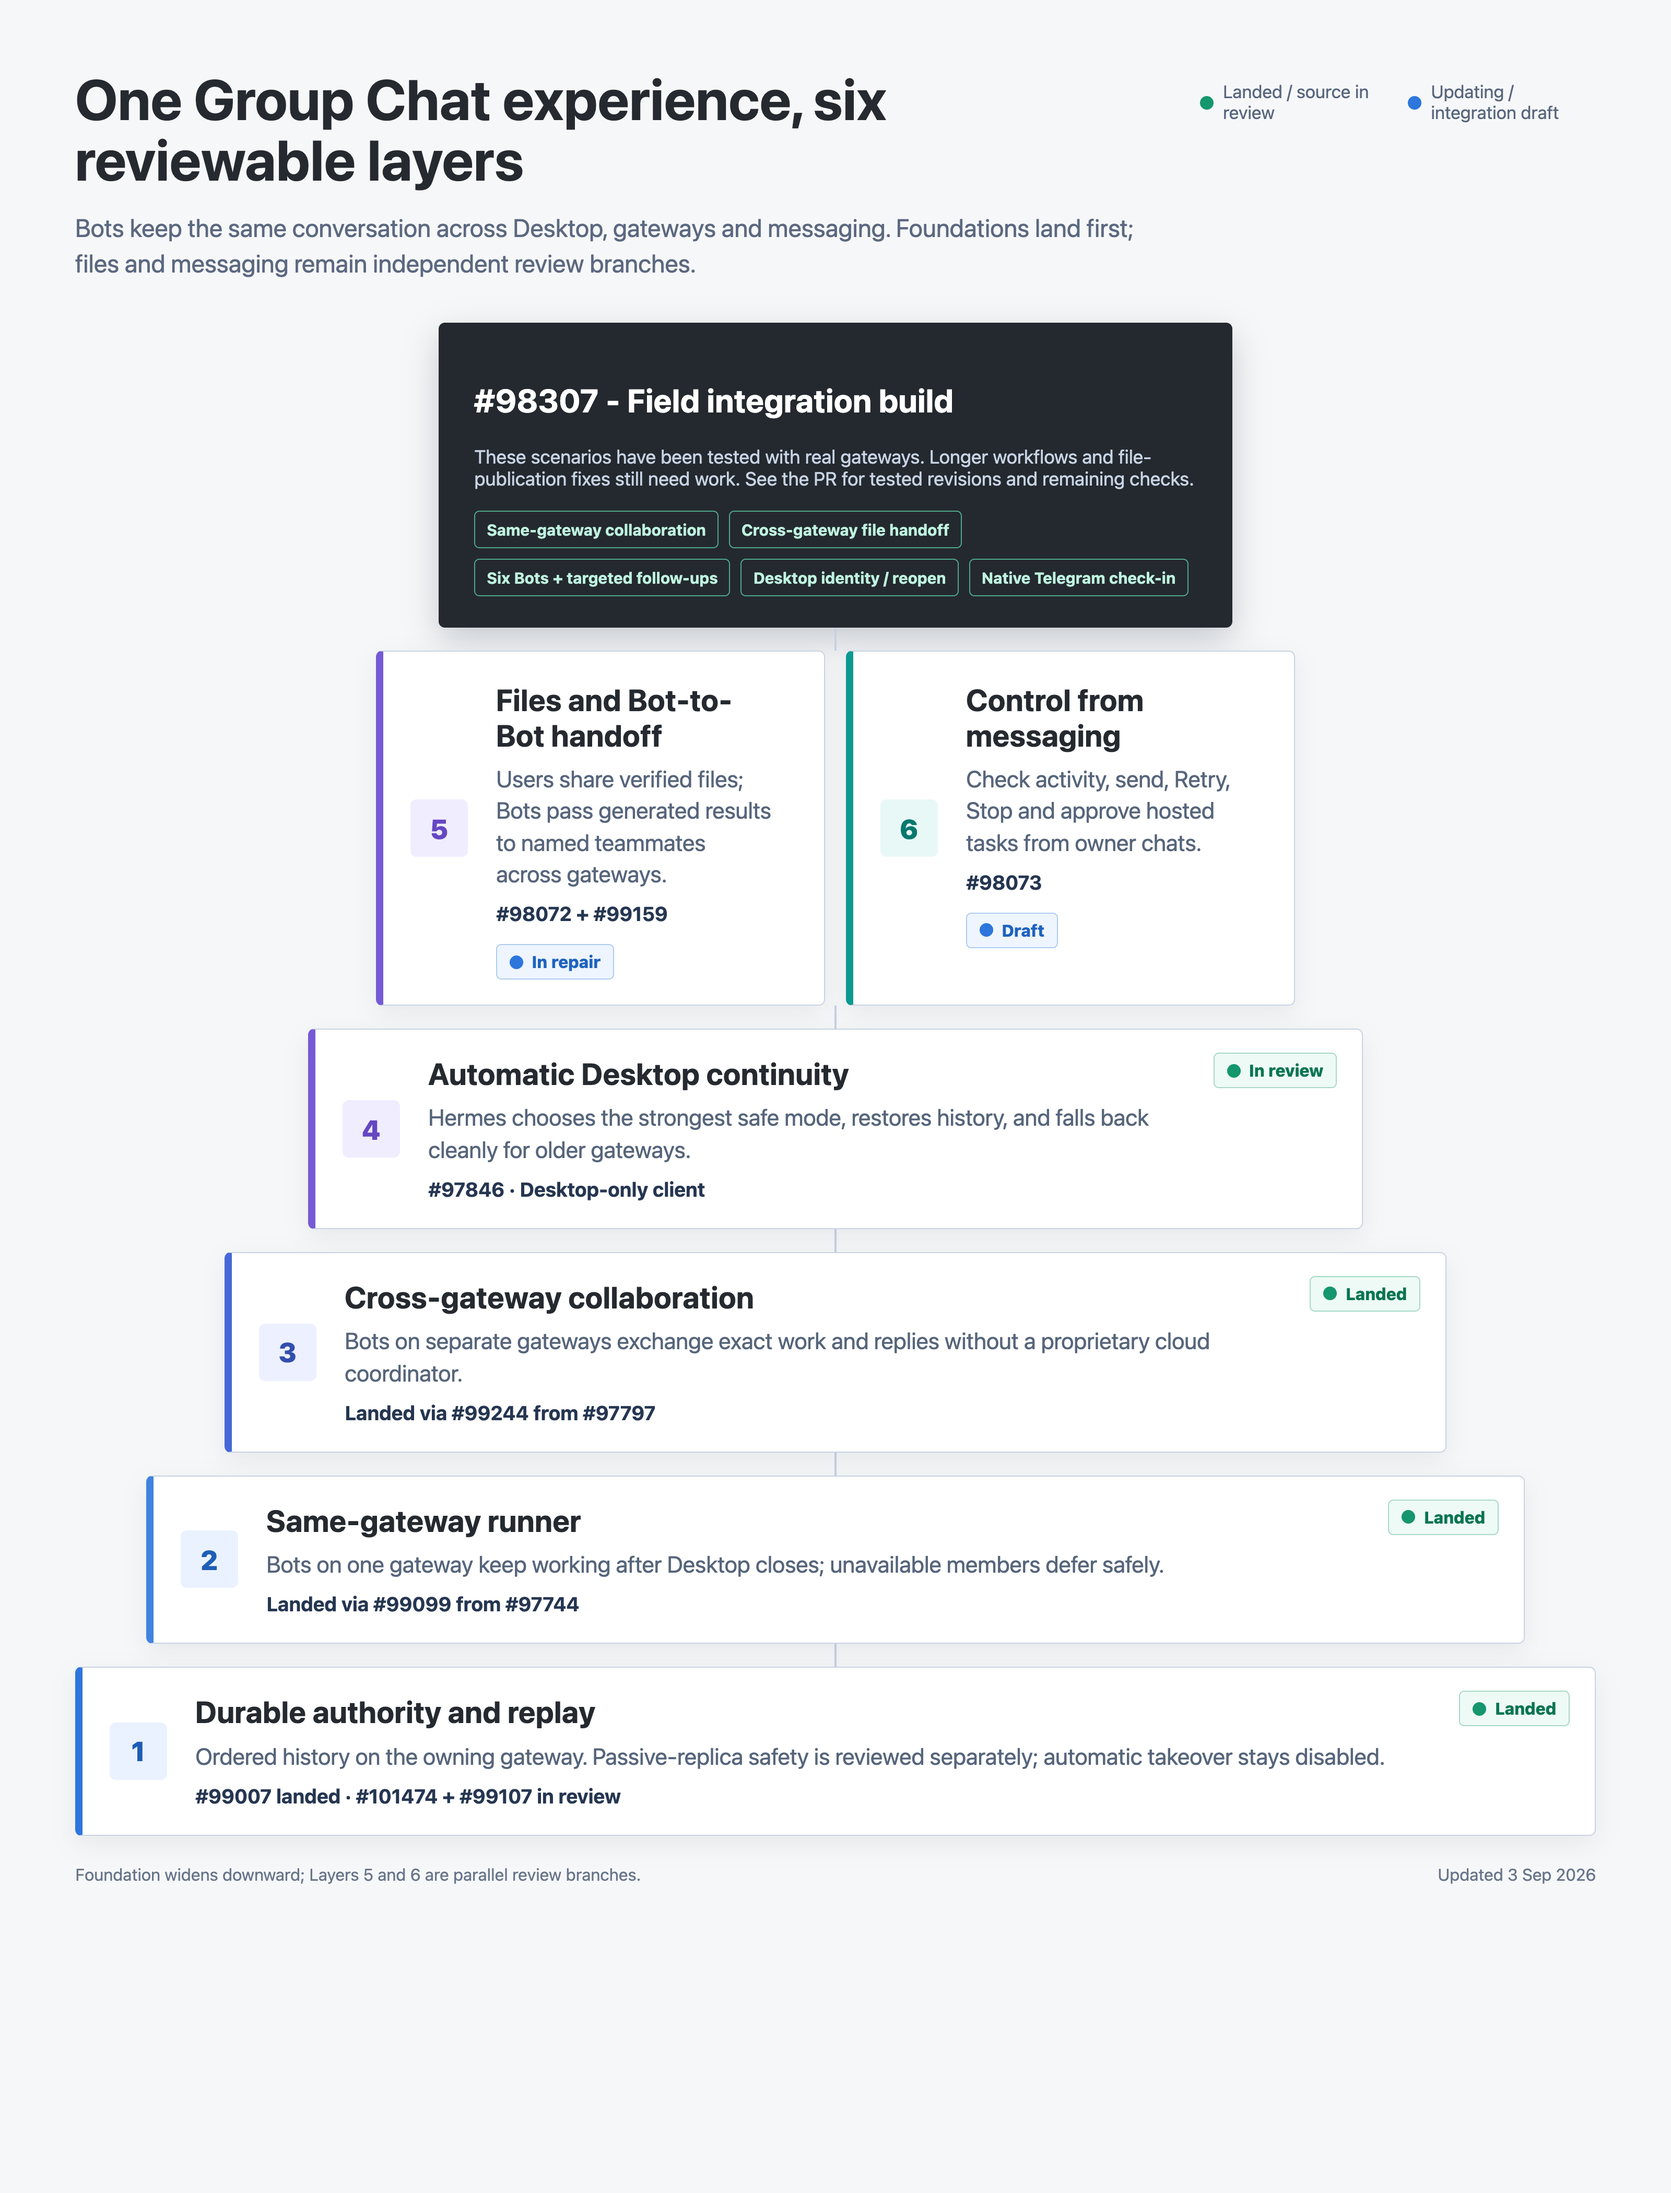
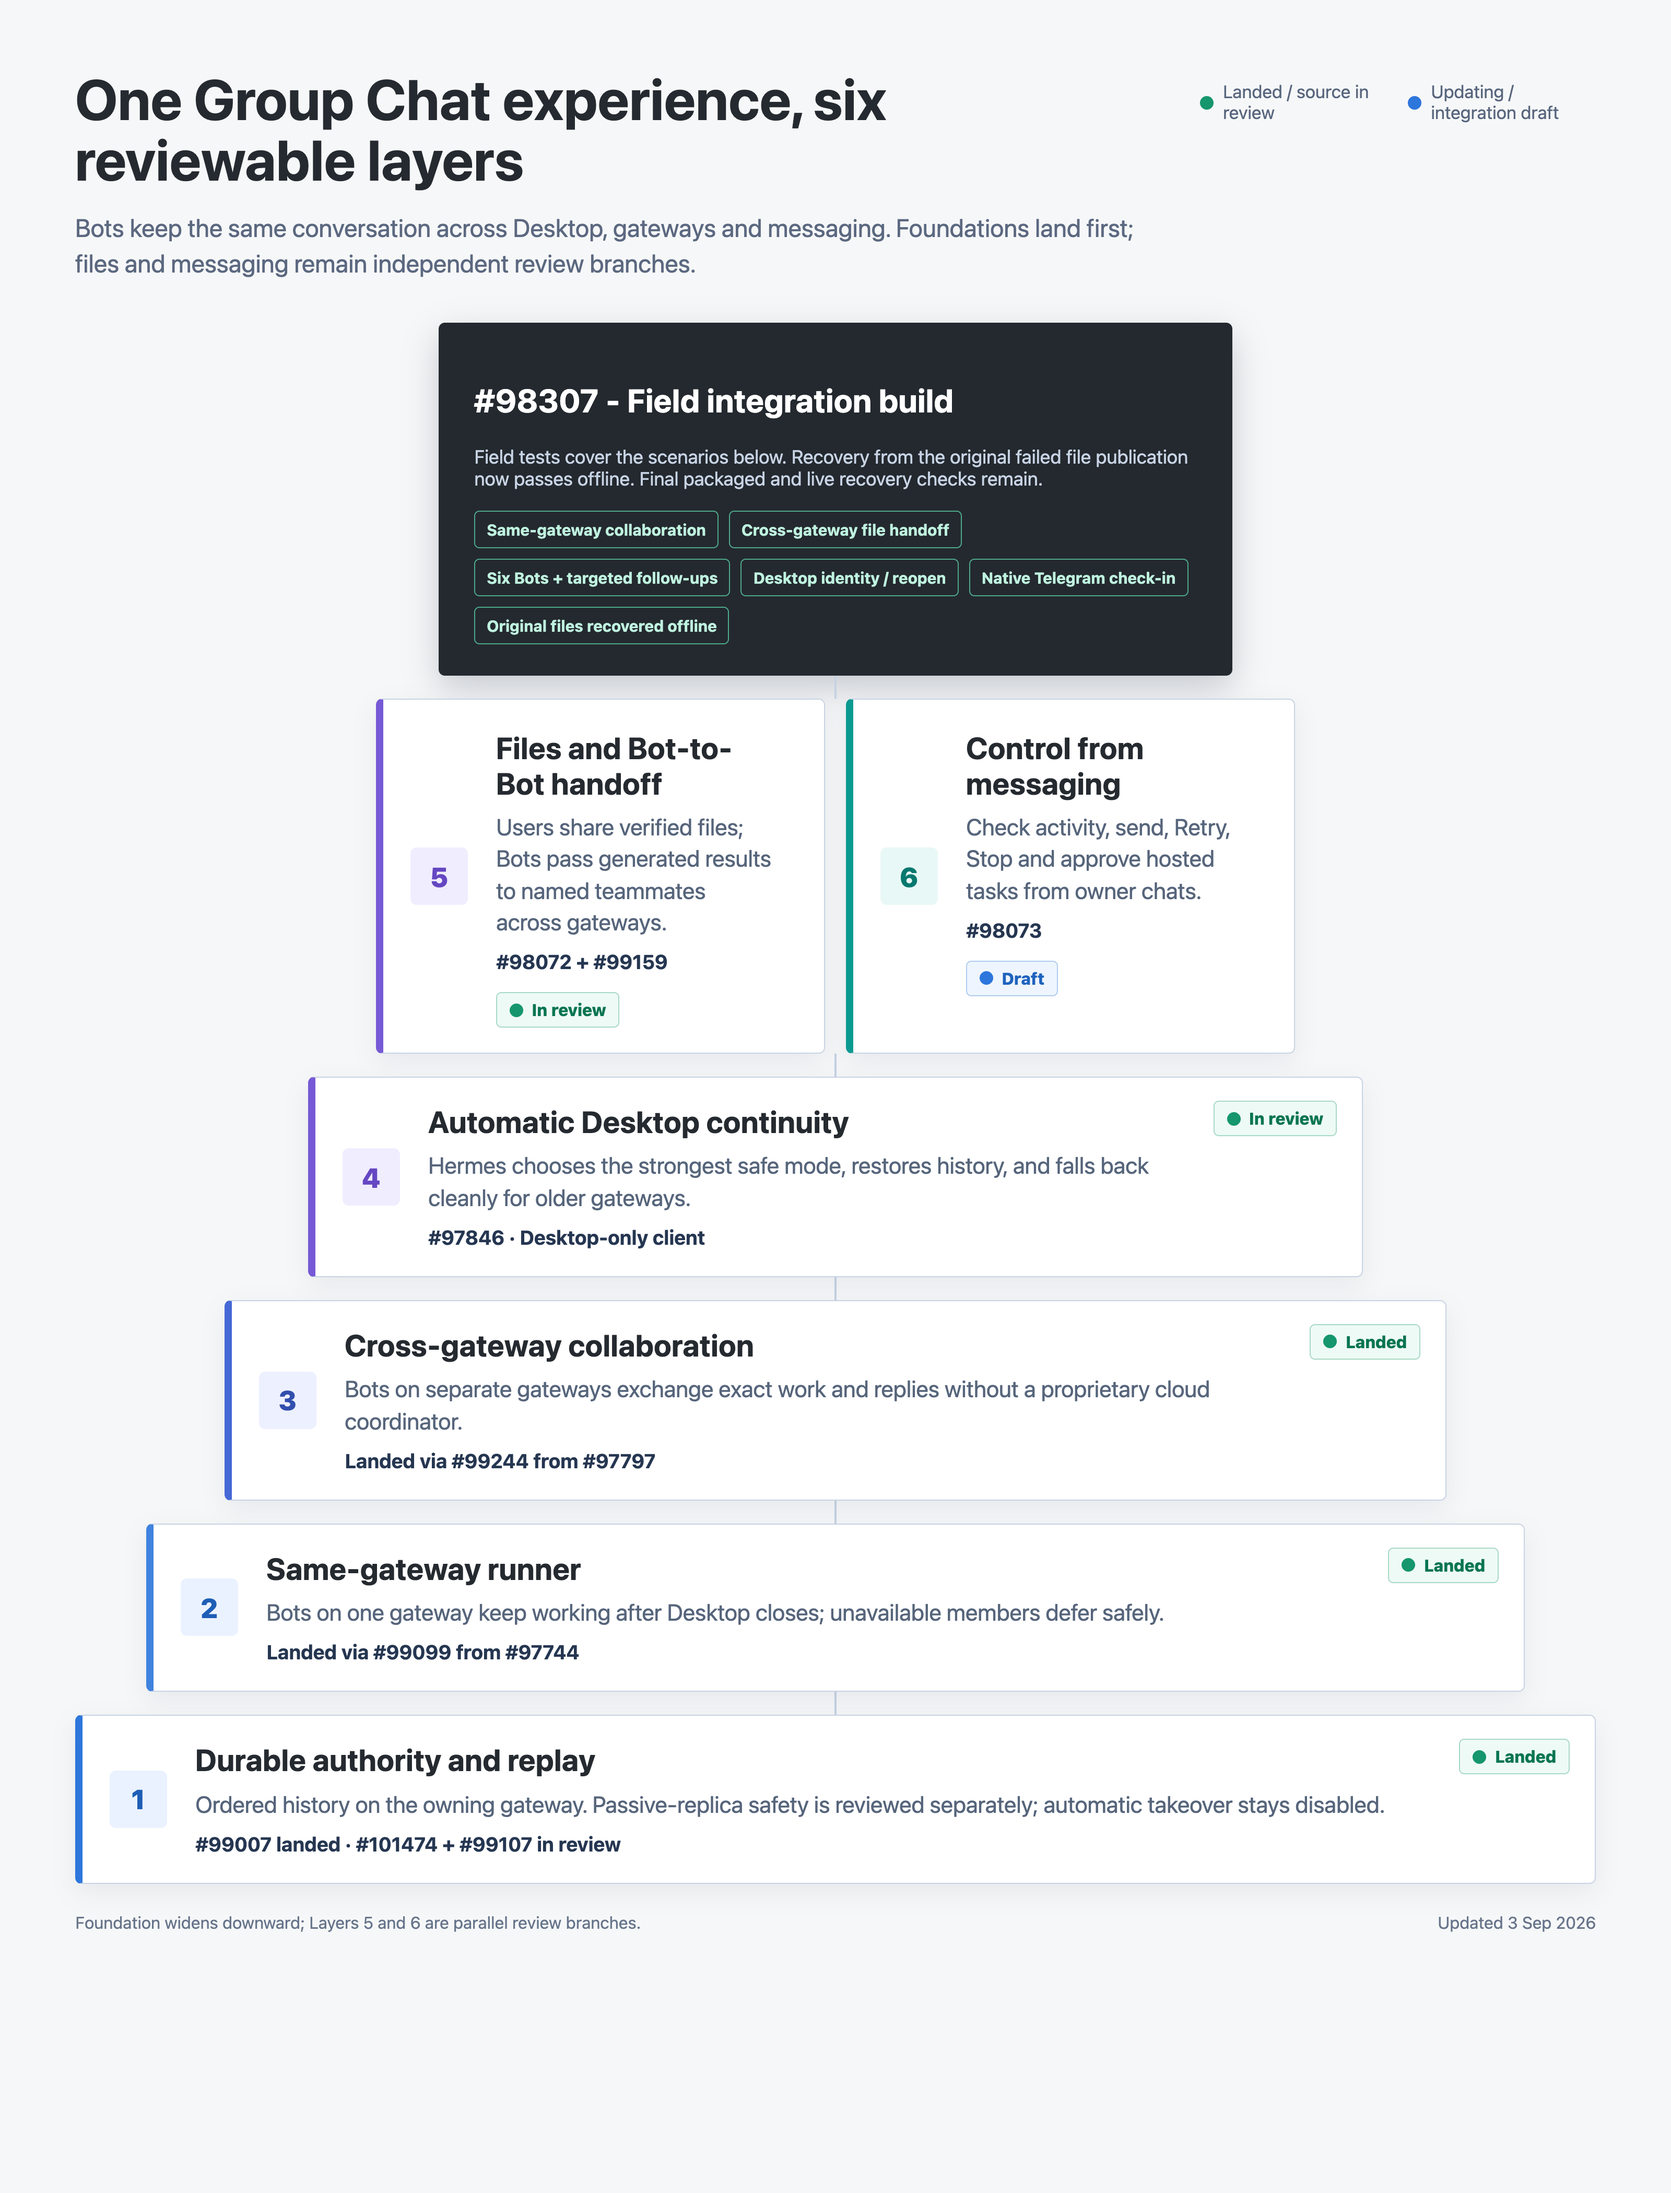
docs: reflect published file repairs and verified offline recovery
Refresh the six-layer visual without claiming completed live recovery. Keep Files in review, Messaging in draft, and the pyramid geometry and full footer intact. The editable HTML accompanies the 3200x4200 render.

diff --git a/docs/issue-assets/group-chat-delivery-stack-20260903.html b/docs/issue-assets/group-chat-delivery-stack-20260903.html
@@ -1,0 +1,174 @@
+<!doctype html>
+<html lang="en">
+<head>
+<meta charset="utf-8">
+<style>
+  * { box-sizing: border-box; }
+  html, body { margin: 0; width: 1600px; min-height: 2000px; }
+  body { overflow: visible; }
+  body {
+    background: #f6f7f8;
+    color: #252a30;
+    font-family: Inter, ui-sans-serif, -apple-system, BlinkMacSystemFont, "Segoe UI", sans-serif;
+    letter-spacing: 0;
+  }
+  main { width: 100%; min-height: 100%; padding: 66px 72px 84px; }
+  header { display: flex; justify-content: space-between; align-items: flex-start; gap: 40px; }
+  h1 { margin: 0; max-width: 960px; font-size: 54px; line-height: 1.08; letter-spacing: 0; }
+  .sub { margin-top: 18px; max-width: 1050px; font-size: 24px; line-height: 1.42; color: #5b6880; }
+  .legend { display: flex; gap: 24px; padding-top: 12px; font-size: 17px; color: #58667e; }
+  .legend-item { display: flex; align-items: center; gap: 9px; max-width: 180px; }
+  .dot { width: 13px; height: 13px; border-radius: 50%; flex: none; }
+  .green { background: #15966d; }
+  .blue { background: #2d76dc; }
+  .stack { margin-top: 40px; display: flex; flex-direction: column; align-items: center; }
+  .connector { width: 2px; height: 22px; background: #c6d2e3; }
+  .card {
+    position: relative;
+    background: #ffffff;
+    border: 1px solid #c8d3e3;
+    border-left: 7px solid var(--accent);
+    border-radius: 6px;
+    box-shadow: 0 8px 24px rgba(35, 53, 82, 0.08);
+    padding: 26px 30px 24px;
+  }
+  .card h2 { margin: 0; font-size: 29px; line-height: 1.15; letter-spacing: 0; }
+  .card p { margin: 10px 0 0; font-size: 22px; line-height: 1.38; color: #56657b; }
+  .receipt { margin-top: 12px; font-size: 19px; line-height: 1.25; color: #253651; font-weight: 700; }
+  .badge {
+    position: absolute; top: 22px; right: 24px;
+    display: inline-flex; align-items: center; gap: 8px;
+    border: 1px solid #a8d9c6; border-radius: 5px;
+    background: #eefaf5; color: #087552;
+    padding: 7px 12px; font-size: 16px; font-weight: 800;
+  }
+  .badge.blue-badge { border-color: #aecbef; background: #eef5ff; color: #1e63be; }
+  .number {
+    position: absolute; left: 26px; top: 50%; transform: translateY(-50%);
+    width: 55px; height: 55px; display: grid; place-items: center;
+    border-radius: 6px; background: var(--number-bg); color: var(--number-fg);
+    font-size: 26px; font-weight: 850;
+  }
+  .content { padding-left: 78px; padding-right: 145px; }
+  .layer1 { width: 1456px; min-height: 154px; --accent: #2d76dc; --number-bg: #eaf2ff; --number-fg: #1e5eb6; }
+  .layer2 { width: 1320px; min-height: 154px; --accent: #3f83df; --number-bg: #eaf2ff; --number-fg: #1e5eb6; }
+  .layer3 { width: 1170px; min-height: 168px; --accent: #4568d6; --number-bg: #edf0ff; --number-fg: #324fad; }
+  .layer4 { width: 1010px; min-height: 174px; --accent: #7659d5; --number-bg: #f0edff; --number-fg: #6547c2; }
+  .branches { width: 880px; display: grid; grid-template-columns: 1fr 1fr; gap: 20px; }
+  .branch { min-height: 218px; padding-top: 30px; }
+  .branch .content { padding-right: 16px; }
+  .branch .badge { position: static; margin: 16px 0 0 78px; }
+  .layer5 { --accent: #7659d5; --number-bg: #f0edff; --number-fg: #6547c2; }
+  .layer6 { --accent: #0b9a91; --number-bg: #e8f8f6; --number-fg: #08786f; }
+  .integration {
+    width: 760px; min-height: 270px; padding: 30px 34px;
+    border: 0; border-radius: 6px; background: #24292f; color: #ffffff;
+    box-shadow: 0 12px 32px rgba(20, 35, 59, 0.22);
+  }
+  .integration h2 { font-size: 31px; }
+  .integration p { color: #c8d4e5; font-size: 18px; }
+  .pills { display: flex; flex-wrap: wrap; gap: 10px; margin-top: 20px; }
+  .pill { border: 1px solid #6f829f; border-radius: 5px; padding: 8px 11px; font-size: 15px; font-weight: 700; color: #edf3fb; }
+  .pill.good { border-color: #4ea98b; color: #bff3df; }
+  footer { margin-top: 28px; width: 1456px; display: flex; justify-content: space-between; font-size: 16px; color: #66748a; }
+</style>
+</head>
+<body>
+<main>
+  <header>
+    <div>
+      <h1>One Group Chat experience, six reviewable layers</h1>
+      <div class="sub">Bots keep the same conversation across Desktop, gateways and messaging. Foundations land first; files and messaging remain independent review branches.</div>
+    </div>
+    <div class="legend">
+      <div class="legend-item"><span class="dot green"></span><span>Landed / source in review</span></div>
+      <div class="legend-item"><span class="dot blue"></span><span>Updating / integration draft</span></div>
+    </div>
+  </header>
+
+  <section class="stack">
+    <article class="integration">
+      <h2>#98307 - Field integration build</h2>
+      <p>Field tests cover the scenarios below. Recovery from the original failed file publication now passes offline. Final packaged and live recovery checks remain.</p>
+      <div class="pills">
+        <span class="pill good">Same-gateway collaboration</span>
+        <span class="pill good">Cross-gateway file handoff</span>
+        <span class="pill good">Six Bots + targeted follow-ups</span>
+        <span class="pill good">Desktop identity / reopen</span>
+        <span class="pill good">Native Telegram check-in</span>
+        <span class="pill good">Original files recovered offline</span>
+      </div>
+    </article>
+    <div class="connector"></div>
+
+    <div class="branches">
+      <article class="card branch layer5">
+        <div class="number">5</div>
+        <div class="content">
+          <h2>Files and Bot-to-Bot handoff</h2>
+          <p>Users share verified files; Bots pass generated results to named teammates across gateways.</p>
+          <div class="receipt">#98072 + #99159</div>
+        </div>
+        <span class="badge"><span class="dot green"></span>In review</span>
+      </article>
+      <article class="card branch layer6">
+        <div class="number">6</div>
+        <div class="content">
+          <h2>Control from messaging</h2>
+          <p>Check activity, send, Retry, Stop and approve hosted tasks from owner chats.</p>
+          <div class="receipt">#98073</div>
+        </div>
+        <span class="badge blue-badge"><span class="dot blue"></span>Draft</span>
+      </article>
+    </div>
+    <div class="connector"></div>
+
+    <article class="card layer4">
+      <div class="number">4</div>
+      <div class="content">
+        <h2>Automatic Desktop continuity</h2>
+        <p>Hermes chooses the strongest safe mode, restores history, and falls back cleanly for older gateways.</p>
+        <div class="receipt">#97846 · Desktop-only client</div>
+      </div>
+      <span class="badge"><span class="dot green"></span>In review</span>
+    </article>
+    <div class="connector"></div>
+
+    <article class="card layer3">
+      <div class="number">3</div>
+      <div class="content">
+        <h2>Cross-gateway collaboration</h2>
+        <p>Bots on separate gateways exchange exact work and replies without a proprietary cloud coordinator.</p>
+        <div class="receipt">Landed via #99244 from #97797</div>
+      </div>
+      <span class="badge"><span class="dot green"></span>Landed</span>
+    </article>
+    <div class="connector"></div>
+
+    <article class="card layer2">
+      <div class="number">2</div>
+      <div class="content">
+        <h2>Same-gateway runner</h2>
+        <p>Bots on one gateway keep working after Desktop closes; unavailable members defer safely.</p>
+        <div class="receipt">Landed via #99099 from #97744</div>
+      </div>
+      <span class="badge"><span class="dot green"></span>Landed</span>
+    </article>
+    <div class="connector"></div>
+
+    <article class="card layer1">
+      <div class="number">1</div>
+      <div class="content">
+        <h2>Durable authority and replay</h2>
+        <p>Ordered history on the owning gateway. Passive-replica safety is reviewed separately; automatic takeover stays disabled.</p>
+        <div class="receipt">#99007 landed · #101474 + #99107 in review</div>
+      </div>
+      <span class="badge"><span class="dot green"></span>Landed</span>
+    </article>
+
+    <footer><span>Foundation widens downward; Layers 5 and 6 are parallel review branches.</span><span>Updated 3 Sep 2026</span></footer>
+  </section>
+</main>
+</body>
+</html>
+
